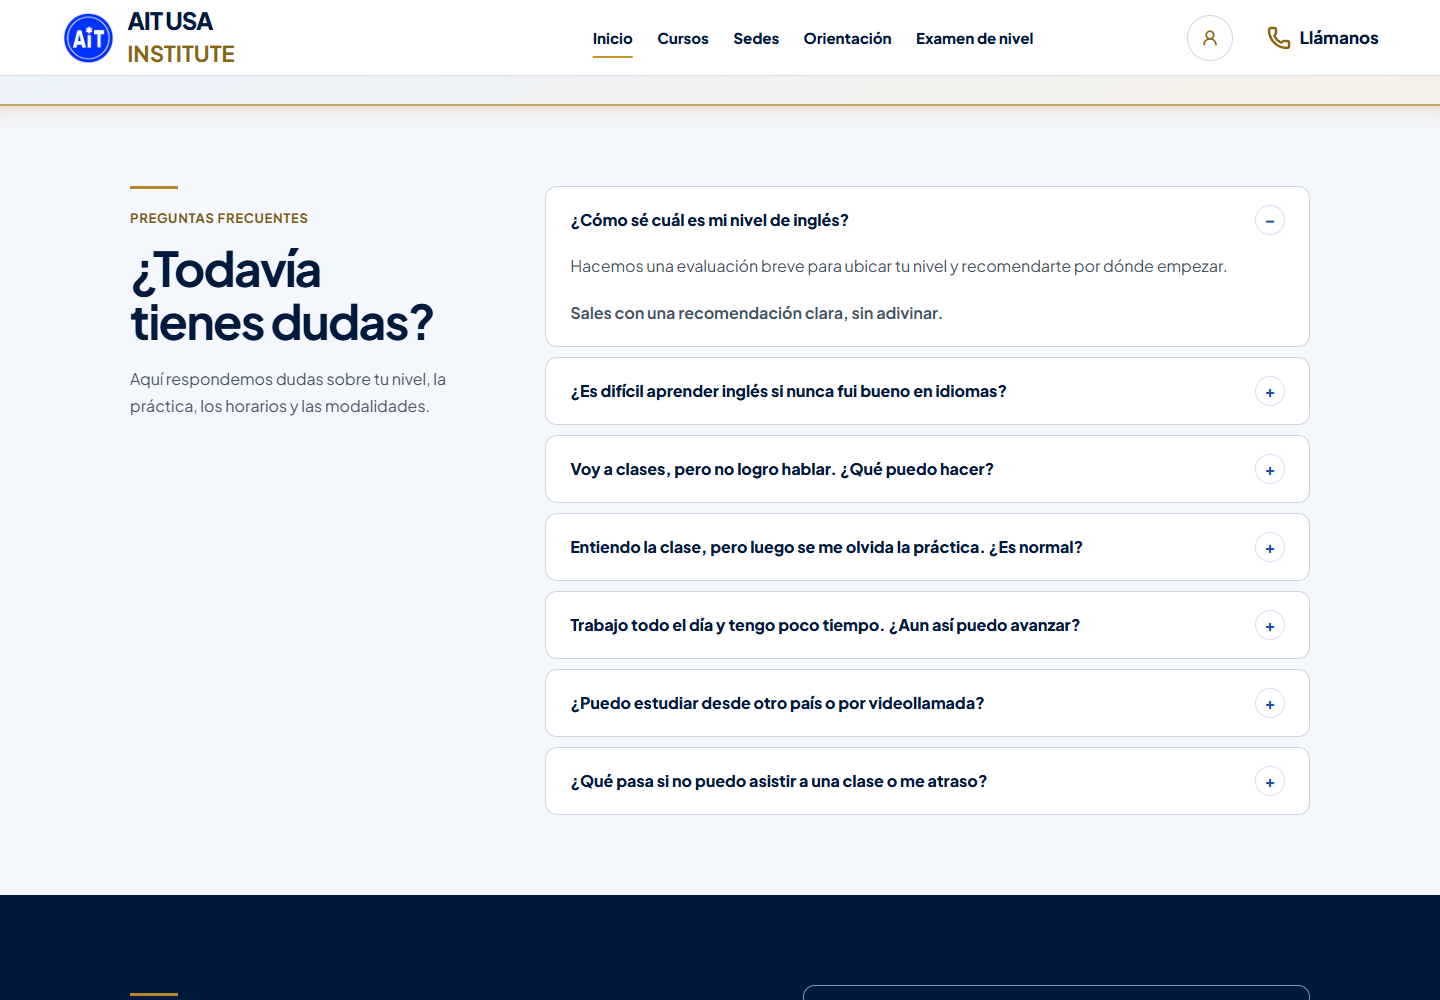
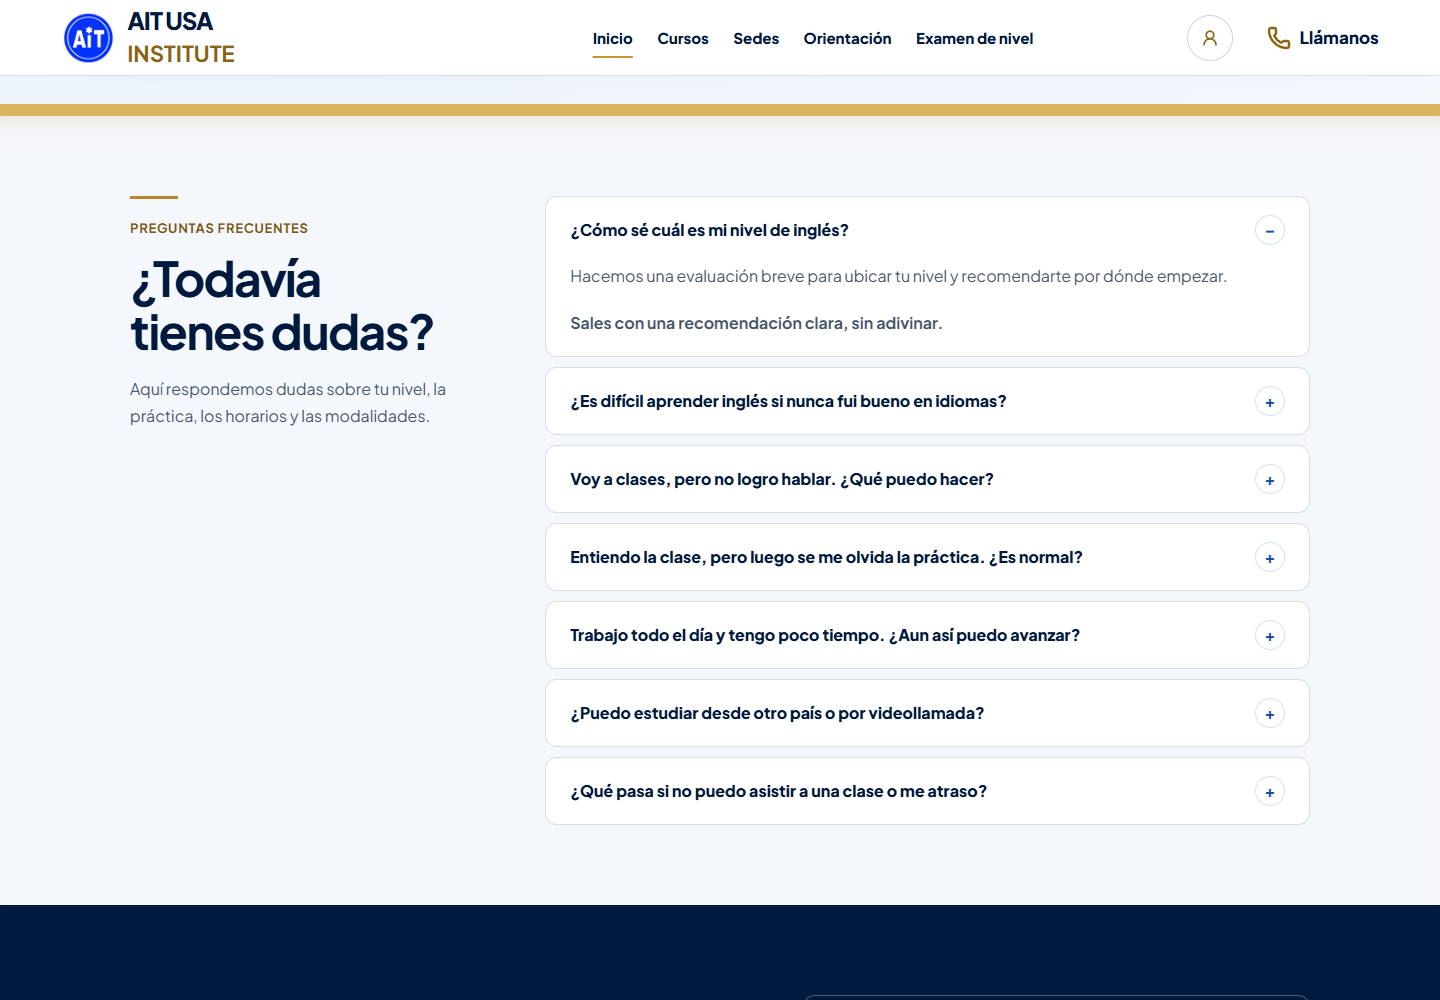
Unify homepage visual system

diff --git a/src/homepage.css b/src/homepage.css
@@ -6,14 +6,28 @@
   --home-gold: #b5872c;
   --home-gold-text: #785615;
   --home-gold-light: #e6bd68;
+  --home-gold-accent: #d9b45d;
   --home-muted: #475569;
   --home-paper: #f7f2e8;
   --home-soft: #f4f7fc;
+  --home-soft-strong: #edf3fb;
   --home-border: #cbd5e1;
+  --home-card-border: rgb(0 26 61 / 14%);
+  --home-dark-border: rgb(255 255 255 / 28%);
+  --home-gold-border: rgb(230 189 104 / 88%);
+  --home-gold-soft: #fffaf0;
+  --home-seam: rgb(181 135 44 / 72%);
   --home-on-dark: #dce6f2;
   --home-radius: 12px;
+  --home-feature-radius: 16px;
   --home-control-radius: 8px;
   --home-shadow: 0 8px 24px rgb(0 26 61 / 7%);
+  --home-shadow-raised: 0 18px 44px rgb(0 26 61 / 10%);
+  --home-shadow-hover: 0 24px 56px rgb(0 26 61 / 14%);
+  --home-shadow-dark: inset 0 1px 0 rgb(255 255 255 / 12%), 0 18px 44px rgb(0 8 24 / 24%);
+  --home-shadow-dark-hover: inset 0 1px 0 rgb(255 255 255 / 16%), 0 24px 52px rgb(0 8 24 / 30%);
+  --home-seam-shadow: inset 0 22px 28px -32px var(--home-seam);
+  --home-accent-seam-shadow: inset 0 22px 30px -32px rgb(217 180 93 / 78%);
   --home-width: 1180px;
   --home-gutter: 32px;
   --home-heading: clamp(2.125rem, 3.4vw, 3rem);
@@ -108,7 +122,7 @@
     min-height: 48px;
     width: fit-content;
     padding: 12px 20px;
-    border: 1px solid var(--home-border);
+    border: 1px solid var(--home-card-border);
     border-radius: var(--home-control-radius);
     box-shadow: none;
     font: 700 1rem/1.4 var(--font-body);
@@ -128,10 +142,10 @@
   /* Decision cards share spacing, typography and action affordances. */
   & #elige-tu-curso { background: linear-gradient(145deg, #edf4fd 0%, #f8fbff 64%, #e5eef9 100%); }
   & .study-goals__grid { display: grid; grid-template-columns: repeat(3, minmax(0, 1fr)); gap: 22px; }
-  & .study-goal { position: relative; display: flex; flex-direction: column; align-items: flex-start; min-height: 330px; padding: 30px; border: 1px solid rgb(0 26 61 / 16%); border-radius: 18px; background: rgb(255 255 255 / 86%); text-decoration: none; box-shadow: 0 18px 46px rgb(0 26 61 / 8%); transition: transform 180ms ease, border-color 180ms ease, box-shadow 180ms ease, background-color 180ms ease; overflow: hidden; }
+  & .study-goal { position: relative; display: flex; flex-direction: column; align-items: flex-start; min-height: 330px; padding: 30px; border: 1px solid var(--home-card-border); border-radius: var(--home-feature-radius); background: rgb(255 255 255 / 88%); text-decoration: none; box-shadow: var(--home-shadow-raised); transition: transform 180ms ease, border-color 180ms ease, box-shadow 180ms ease, background-color 180ms ease; overflow: hidden; }
   & .study-goal::after { content: ""; position: absolute; inset: auto -40px -70px auto; width: 170px; height: 170px; border-radius: 999px; background: radial-gradient(circle, rgb(23 78 166 / 9%), transparent 68%); pointer-events: none; }
-  & .study-goal:hover { border-color: rgb(23 78 166 / 48%); background: white; box-shadow: 0 24px 56px rgb(0 26 61 / 14%); transform: translateY(-4px); }
-  & .study-goal__icon { display: grid; place-items: center; width: 54px; height: 54px; margin-bottom: 24px; border: 1px solid rgb(23 78 166 / 18%); border-radius: 16px; background: #eef3fb; color: var(--home-blue); }
+  & .study-goal:hover { border-color: rgb(23 78 166 / 48%); background: white; box-shadow: var(--home-shadow-hover); transform: translateY(-4px); }
+  & .study-goal__icon { display: grid; place-items: center; width: 54px; height: 54px; margin-bottom: 24px; border: 1px solid rgb(23 78 166 / 18%); border-radius: var(--home-radius); background: var(--home-soft-strong); color: var(--home-blue); }
   & .study-goal__icon svg { width: 28px; height: 28px; }
   & .study-goal__label { font-size: .75rem; font-weight: 800; letter-spacing: .08em; text-transform: uppercase; color: var(--home-gold-text); }
   & .study-goal h3 { margin: 10px 0 12px; font-size: 1.35rem; line-height: 1.25; letter-spacing: -.02em; }
@@ -145,12 +159,12 @@
   & #cursos .section-kicker { color: var(--home-gold-light); }
   & #cursos .section-heading > p:last-child:not(.section-kicker) { color: var(--home-on-dark); }
   & #cursos .offer-map { display: grid; grid-template-columns: repeat(3, minmax(0, 1fr)); gap: 20px; margin-top: 0; overflow: visible; }
-  & #cursos .offer-node { position: relative; isolation: isolate; display: flex; flex-direction: column; align-items: flex-start; gap: 24px; min-height: 330px; padding: 30px; border: 1px solid rgb(255 255 255 / 28%); border-radius: 18px; box-shadow: inset 0 1px 0 rgb(255 255 255 / 12%), 0 18px 40px rgb(0 8 24 / 22%); background: rgb(255 255 255 / 10%); backdrop-filter: blur(18px) saturate(115%); transition: transform 180ms ease, border-color 180ms ease, background-color 180ms ease, box-shadow 180ms ease; }
-  & #cursos .offer-node:hover { z-index: 1; border-color: rgb(230 189 104 / 68%); background: rgb(255 255 255 / 15%); box-shadow: inset 0 1px 0 rgb(255 255 255 / 16%), 0 18px 36px rgb(0 8 24 / 30%); transform: translateY(-4px); }
+  & #cursos .offer-node { position: relative; isolation: isolate; display: flex; flex-direction: column; align-items: flex-start; gap: 24px; min-height: 330px; padding: 30px; border: 1px solid var(--home-dark-border); border-radius: var(--home-feature-radius); box-shadow: var(--home-shadow-dark); background: rgb(255 255 255 / 10%); backdrop-filter: blur(18px) saturate(115%); transition: transform 180ms ease, border-color 180ms ease, background-color 180ms ease, box-shadow 180ms ease; }
+  & #cursos .offer-node:hover { z-index: 1; border-color: rgb(230 189 104 / 68%); background: rgb(255 255 255 / 15%); box-shadow: var(--home-shadow-dark-hover); transform: translateY(-4px); }
   & #cursos .offer-node h3 { margin: 0 0 16px; font-size: 1.375rem; line-height: 1.3; }
   & #cursos .offer-node p { display: block; margin: 0; font-size: 1rem; line-height: 1.6; color: var(--home-on-dark); overflow: visible; }
   & #cursos .offer-node__summary-lead { color: var(--home-gold-light); }
-  & #cursos .offer-node--primary { background: rgb(255 255 255 / 11%); border: 2px solid rgb(230 189 104 / 88%); box-shadow: inset 0 1px 0 rgb(255 255 255 / 14%), 0 18px 40px rgb(0 8 24 / 24%); color: white; }
+  & #cursos .offer-node--primary { background: rgb(255 255 255 / 11%); border: 2px solid var(--home-gold-border); box-shadow: var(--home-shadow-dark); color: white; }
   & #cursos .offer-node--primary::before { position: absolute; inset: -2px 28px auto; height: 3px; border-radius: 0 0 999px 999px; background: linear-gradient(90deg, transparent, var(--home-gold-light), transparent); content: ""; }
   & #cursos .offer-node :is(h3, p) { color: white; }
   & #cursos .offer-node__status { display: block; margin-bottom: 12px; font-size: .8125rem; color: var(--home-gold-light); }
@@ -159,34 +173,35 @@
   & #cursos .offer-node__link-full { display: inline; }
 
   /* Preserve geographic selection and make its cards part of the same system. */
-  & #sedes { color: var(--home-navy); background: linear-gradient(150deg, #f8fbff 0%, #edf3fb 56%, #f7f2e8 100%); }
+  & #sedes { color: var(--home-navy); background: linear-gradient(150deg, #f8fbff 0%, var(--home-soft-strong) 58%, var(--home-soft) 100%); }
   & #sedes .section-heading h2 { color: var(--home-navy); }
   & #sedes .section-kicker { color: var(--home-gold-text); }
   & #sedes .section-heading > p:last-child:not(.section-kicker) { color: var(--home-muted); }
-  & #sedes :is(.real-map-card, .compact-location-row, .location-hours-panel) { border: 1px solid rgb(0 26 61 / 14%); border-radius: 16px; background: rgb(255 255 255 / 92%); box-shadow: 0 18px 44px rgb(0 26 61 / 10%); }
+  & #sedes :is(.real-map-card, .compact-location-row, .location-hours-panel) { border: 1px solid var(--home-card-border); border-radius: var(--home-feature-radius); background: rgb(255 255 255 / 92%); box-shadow: var(--home-shadow-raised); }
+  & #sedes .location-hours-panel { color: var(--home-navy); }
   & #sedes :is(.compact-location-row__copy strong, .compact-location-row__copy > span, .location-hours-panel h3, .location-hours-panel li) { color: var(--home-navy); }
   & #sedes :is(.compact-location-row__copy small, .location-hours-panel__note) { color: var(--home-muted); }
   & #sedes .compact-location-row__copy em { color: var(--home-blue); background: #edf3ff; }
-  & #sedes :is(.compact-location-row__number, .location-hours-panel__icon) { color: var(--home-navy); background: var(--home-gold-light); border-color: rgb(181 135 44 / 42%); }
+  & #sedes :is(.compact-location-row__number, .location-hours-panel__icon) { color: var(--home-navy); background: var(--home-gold-accent); border-color: rgb(181 135 44 / 42%); }
   & #sedes .location-hours-panel .eyebrow-chip { color: var(--home-gold-text); }
   & #sedes .location-hours-panel__group > strong { color: var(--home-gold-text); }
   & #sedes .location-hours-panel__group + .location-hours-panel__group { border-left-color: rgb(0 26 61 / 16%); }
   & #sedes .location-hours-panel__slot dt { color: var(--home-muted); }
   & #sedes .location-hours-panel__slot dd { color: var(--home-navy); }
-  & #sedes .compact-location-row.is-selected { border-color: var(--home-gold); background: #fffaf0; box-shadow: 0 16px 34px rgb(0 26 61 / 12%); }
-  & #sedes .real-map-pin.is-active svg { color: var(--home-navy); fill: var(--home-gold-light); }
+  & #sedes .compact-location-row.is-selected { border-color: var(--home-gold); background: var(--home-gold-soft); box-shadow: var(--home-shadow-raised); }
+  & #sedes .real-map-pin.is-active svg { color: var(--home-navy); fill: var(--home-gold-accent); }
   & #sedes .real-map-pin.is-active strong { color: var(--home-navy); }
   & .location-selector { display: grid; gap: 8px; padding: 16px; color: var(--home-navy); font-size: .9375rem; font-weight: 700; background: white; }
-  & .location-selector select { width: 100%; min-height: 48px; padding: 10px 12px; border: 1px solid #94a3b8; border-radius: var(--home-control-radius); color: var(--home-navy); background: white; font: inherit; }
+  & .location-selector select { width: 100%; min-height: 48px; padding: 10px 12px; border: 1px solid var(--home-card-border); border-radius: var(--home-control-radius); color: var(--home-navy); background: white; font: inherit; }
   & .real-map-pin { pointer-events: none; cursor: default; }
-  & .location-selected-hours { padding: 20px; margin-top: 14px; border: 1px solid var(--home-border); border-radius: var(--home-radius); background: white; }
+  & .location-selected-hours { padding: 20px; margin-top: 14px; border: 1px solid var(--home-card-border); border-radius: var(--home-radius); background: white; box-shadow: var(--home-shadow); }
   & .location-selected-hours h3 { margin: 0 0 10px; color: var(--home-navy); font-size: 1.125rem; }
   & .location-selected-hours p { margin: 0 0 12px; color: var(--home-muted); font-size: .9375rem; }
   & .location-selected-hours a { display: inline-flex; align-items: center; min-height: 44px; color: var(--home-blue); font-weight: 700; font-size: .9375rem; text-underline-offset: 4px; }
   & #sedes .compact-location-row__action { color: var(--home-blue); font-size: .875rem; }
 
   /* Method and books form consecutive chapters; original narrative is preserved. */
-  & #metodo.method-story-section { background: linear-gradient(180deg, #fbf6eb 0%, var(--home-paper) 100%); border-top: 2px solid rgb(181 135 44 / 72%); box-shadow: inset 0 22px 28px -32px rgb(181 135 44 / 72%); padding-bottom: 48px; }
+  & #metodo.method-story-section { background: linear-gradient(180deg, #fbf6eb 0%, var(--home-paper) 100%); border-top: 2px solid var(--home-seam); box-shadow: var(--home-seam-shadow); padding-bottom: 48px; }
   & #metodo .method-story-frame { gap: 24px; }
   & #metodo .method-story__opening { display: block; padding: 0; min-height: 0; }
   & #metodo .method-story__intro { max-width: none; margin-bottom: 40px; padding-left: 24px; border-left: 4px solid var(--home-gold); }
@@ -206,7 +221,7 @@
   & #metodo .method-story__principles-heading h3 { margin: 10px 0 0; max-width: 620px; font-size: 2rem; line-height: 1.2; letter-spacing: -.03em; }
   & #metodo .method-reasons { padding: 0; margin: 0; transform: none; }
   & #metodo .method-story__conclusion .method-reasons li { display: grid; grid-template-columns: 40px minmax(0, 1fr); gap: 20px; align-items: start; padding: 20px 0; border-color: #d7ccb6; }
-  & #metodo .method-story__conclusion .method-reason__icon { display: grid; place-items: center; width: 58px; height: 58px; border-radius: 16px; border: 1px solid rgb(181 135 44 / 32%); background: linear-gradient(145deg, #fffdf8, #f4ead2); box-shadow: 0 10px 24px rgb(0 26 61 / 8%); overflow: hidden; }
+  & #metodo .method-story__conclusion .method-reason__icon { display: grid; place-items: center; width: 58px; height: 58px; border-radius: var(--home-radius); border: 1px solid rgb(181 135 44 / 32%); background: linear-gradient(145deg, #fffdf8, #f4ead2); box-shadow: var(--home-shadow); overflow: hidden; }
   & #metodo .method-reason__icon::before { display: none; }
   & #metodo .method-story__conclusion .method-reason__icon-image { display: block; width: 52px; height: 52px; object-fit: contain; mix-blend-mode: multiply; }
   & #metodo .method-story__conclusion .method-reason__icon svg { display: block; width: 26px; height: 26px; color: var(--home-navy); filter: none; }
@@ -226,12 +241,12 @@
   /* Proof uses the same media frames, with collections accessible in one gallery. */
   & #testimonios { background: white; }
   & #testimonios .testimonials-grid { gap: 24px; margin-top: 0; }
-  & #testimonios .testimonial-card { border: 1px solid var(--home-border); border-radius: var(--home-radius); box-shadow: var(--home-shadow); transform: none; }
+  & #testimonios .testimonial-card { border: 1px solid var(--home-card-border); border-radius: var(--home-radius); box-shadow: var(--home-shadow); transform: none; }
   & #testimonios .testimonial-card__media { height: auto; min-height: 0; aspect-ratio: 4 / 3; }
   & #testimonios .testimonial-card__copy { padding: 24px; gap: 10px; }
   & #testimonios .testimonial-card__copy strong { font-size: 1.25rem; line-height: 1.3; }
   & #testimonios .testimonial-card__copy small { font-size: 1rem; line-height: 1.6; color: var(--home-muted); }
-  & #testimonios .country-proof { background: var(--home-soft); border: 1px solid var(--home-border); border-radius: var(--home-radius); box-shadow: none; margin: 32px 0 0; padding: 24px; }
+  & #testimonios .country-proof { color: var(--home-navy); background: var(--home-soft); border: 1px solid var(--home-card-border); border-radius: var(--home-radius); box-shadow: none; margin: 32px 0 0; padding: 24px; }
   & #testimonios .country-proof__copy { color: var(--home-navy); }
   & #testimonios .country-proof__copy > span { color: var(--home-gold-text); font-size: .8125rem; }
   & #testimonios .country-proof__flags { display: flex; flex-wrap: wrap; justify-content: flex-start; gap: 12px; overflow: visible; margin: 0; padding: 0; }
@@ -239,19 +254,19 @@
   & #experiencia { background: var(--home-navy); }
   & #experiencia .chapter-accent { display: none; }
   & #experiencia .community-proof__tabs { display: grid; grid-auto-flow: row; grid-auto-columns: auto; grid-template-columns: repeat(4, minmax(0, 1fr)); width: 100%; gap: 8px; margin: 0 0 24px; padding: 0; overflow: visible; border: 0; }
-  & #experiencia .community-proof__tabs button { width: 100%; min-height: 48px; padding: 12px 16px; color: var(--home-on-dark); font-size: 1rem; line-height: 1.4; border: 1px solid #8193ae; border-radius: var(--home-control-radius); white-space: normal; background: transparent; }
+  & #experiencia .community-proof__tabs button { width: 100%; min-height: 48px; padding: 12px 16px; color: var(--home-on-dark); font-size: 1rem; line-height: 1.4; border: 1px solid var(--home-dark-border); border-radius: var(--home-control-radius); white-space: normal; background: transparent; }
   & #experiencia .community-proof__tabs button::after { display: none; }
   & #experiencia .community-proof__tabs button.is-active { color: var(--home-navy); background: white; border-color: white; }
   & #experiencia .community-proof__stage { display: grid; grid-template-columns: minmax(0, 1.78fr) minmax(0, 1fr); grid-template-rows: clamp(420px, 46vw, 600px); align-items: stretch; gap: 24px; margin: 0; min-height: 0; }
   & #experiencia .community-proof__stage--single { grid-template-columns: minmax(0, 1fr); }
   & #experiencia .community-proof__stage--pair { grid-template-columns: repeat(2, minmax(0, 1fr)); }
-  & #experiencia :is(.community-proof__feature, .community-proof__tile) { border-radius: var(--home-radius); box-shadow: none; }
+  & #experiencia :is(.community-proof__feature, .community-proof__tile) { border: 1px solid var(--home-dark-border); border-radius: var(--home-radius); box-shadow: none; }
   & #experiencia .community-proof__feature { min-height: 0; height: 100%; aspect-ratio: auto; }
   & #experiencia .community-proof__mosaic { min-height: 0; height: 100%; grid-template-rows: repeat(2, minmax(0, 1fr)); gap: 24px; }
   & #experiencia .community-proof__mosaic--single { grid-template-rows: minmax(0, 1fr); }
   & #experiencia .community-proof__tile { min-height: 0; height: 100%; }
   & #experiencia .community-proof__toolbar { display: flex; flex-wrap: wrap; align-items: center; justify-content: space-between; gap: 16px; margin-top: 24px; }
-  & #experiencia :is(.home-secondary-button, .community-pause) { color: white; background: transparent; border-color: #8193ae; margin: 0; }
+  & #experiencia :is(.home-secondary-button, .community-pause) { color: white; background: transparent; border-color: var(--home-dark-border); margin: 0; }
   & #experiencia :is(.home-secondary-button, .community-pause):hover { background: #123f78; }
   & #experiencia .community-pause-note { color: var(--home-on-dark); }
   & #experiencia .community-proof__service-note { margin-block: 24px 0; }
@@ -265,23 +280,23 @@
     & :is(.hero__help, .home-text-link, .books-section__heading a):hover { color: white; }
     & :is(a, button):focus-visible { outline-color: var(--home-gold-light); }
   }
-  & #faq { background: var(--home-soft); border-top: 2px solid rgb(181 135 44 / 72%); box-shadow: inset 0 22px 28px -32px rgb(181 135 44 / 72%); }
+  & #faq { background: var(--home-soft); border-top: 12px solid var(--home-gold-accent); box-shadow: var(--home-accent-seam-shadow); }
   & #faq, & #contacto { min-height: 0; }
   & #faq .faq-layout { align-items: start; gap: 48px; }
   /* Clear the legacy sticky top offset when the heading is in normal flow. */
   & #faq .section-heading { position: static; inset: auto; }
-  & #faq .faq-list details { border: 1px solid var(--home-border); border-radius: var(--home-radius); box-shadow: none; padding: 0; }
+  & #faq .faq-list details { border: 1px solid var(--home-card-border); border-radius: var(--home-radius); box-shadow: none; padding: 0; }
   & #faq .faq-list summary { min-height: 64px; padding: 18px 24px; font-size: 1rem; line-height: 1.5; }
   & #faq .faq-list details > p { margin: 0; padding: 0 24px 20px; color: var(--home-muted); font-size: 1rem; line-height: 1.65; }
   & #contacto { background: var(--home-navy); }
   & #contacto .final-cta-copy { display: grid; grid-template-columns: minmax(0, 1.2fr) minmax(0, 1fr); gap: 64px; align-items: center; }
   & #contacto .section-heading { margin: 0; }
-  & #contacto .final-cta-conversion { display: flex; flex-direction: column; align-items: flex-start; gap: 16px; margin: 0; padding: 32px; border: 1px solid #8193ae; border-radius: var(--home-radius); }
+  & #contacto .final-cta-conversion { display: flex; flex-direction: column; align-items: flex-start; gap: 16px; margin: 0; padding: 32px; border: 1px solid var(--home-dark-border); border-radius: var(--home-radius); color: white; }
   & #contacto .final-cta-contact-row { display: flex; justify-content: flex-start; width: 100%; padding: 0; margin: 0; }
   & #contacto .final-cta-actions { display: flex; justify-content: center; width: 100%; padding: 0; margin: 0; text-align: center; }
   & #contacto .final-cta-actions .hero__help { justify-content: center; text-align: center; }
   & #contacto .button--primary { min-height: 48px; width: 100%; background: white; border-color: white; color: var(--home-navy); border-radius: var(--home-control-radius); box-shadow: none; }
-  & #contacto .button--primary:hover { background: #e5edf8; border-color: #e5edf8; }
+  & #contacto .button--primary:hover { background: var(--home-soft-strong); border-color: var(--home-soft-strong); }
   & #contacto .placement-effort { display: block; align-self: center; margin: 0; color: var(--home-on-dark); font-size: .9375rem; line-height: 1.6; text-align: center; }
   & #contacto .callback-dialog { color: var(--home-navy); }
   & #contacto .callback-dialog :is(.section-kicker, a) { color: var(--home-blue); }

diff --git a/docs/homepage-redesign-release-packet-2026-09-16.md b/docs/homepage-redesign-release-packet-2026-09-16.md
@@ -9,18 +9,20 @@
 - Candidate commit: This release commit, created directly from the freshly fetched `origin/staging` baseline above.
 - Candidate structure: Hero → English modality decision → secondary programs → Method → Graphic Concept books → testimonials → community proof → locations → FAQ → final CTA.
 - Follow-up refinement: Move the Method video below the subsection headline's starting edge, restore a clear 32px/18px heading-to-point hierarchy, remove the legacy upward pull on the three outcomes, reduce Method density on mobile, and give the narrow-screen secondary-program link an intentional centered wrap. No broader palette or component-system changes were made during the advisory uniformity audit.
+- Uniformity follow-up: Apply the approved homepage-wide visual system without reopening the structure or copy: one cool/warm palette rule, 16px feature cards, 12px content cards, 8px controls, shared light/dark borders, shared elevation recipes, cool-toned Sedes surfaces, one established gold for map pins and location markers, explicit inherited text colors, a fine gold seam into the warm Método story, and a deliberate 12px gold transition band between the cool Sedes and FAQ chapters.
 - Validation:
   - `npm run validate` — repository policy passed; asset integrity passed (`132` references, `0` missing, `0` orphaned); full Node suite passed (`357/357`); final Turbopack build failed because the worktree has no local `node_modules` and Turbopack rejects the temporary junction to the canonical checkout as outside the filesystem root.
   - `npm run build -- --webpack` — passed after the final CSS changes with all routes generated.
   - `node --test tests/homepage-proof.test.mjs tests/homepage-integration.test.mjs` — passed (`19/19`) after the final footer and modality-card corrections.
   - `VERIFY_BASE_URL=http://127.0.0.1:3000 npm run verify:release-surfaces` — passed (`49` screenshots) after the final production build.
   - Follow-up browser QA — Method verified at `1920×1080` and `390×844`; zero horizontal overflow and zero browser console errors; the mobile Method chapter is approximately `120px` shorter than the approved staging checkpoint.
+  - Uniformity browser QA — homepage manually verified at the normal desktop viewport, `390×844`, and `320×844`; zero horizontal overflow and zero browser console warnings or errors. The complete `49`-screenshot release-surface matrix passed again after the final token and component-state refinements.
   - `git diff --check` — passed; only Windows line-ending notices were emitted.
 - Visual evidence:
   - Deterministic route matrix: `artifacts/release-surfaces/`.
   - Exact manual checks include homepage at `1920×1080` and `390×844`, Method at `1920×1080` and `390×844`, and portal sign-in at `1920×1080` and `390×844`.
   - No horizontal overflow or browser console/runtime warnings or errors were observed in the final local browser pass.
-- Deployment URL: Pending — local candidate only.
+- Deployment URL: Git-triggered staging alias `https://aitusa-institute-refresh-git-staging-alvaros-projects-efb8ae58.vercel.app`; the exact immutable deployment is verified after the authorized push completes.
 - Sentry status: Unavailable for the local candidate; no remote Sentry write or authenticated production action was performed. Browser runtime evidence was privacy-safe and no forms or student data were submitted.
 - Approval state: Owner reviewed the local candidate and explicitly authorized a staging push. Production promotion remains unauthorized.
 - Safety: No dependency installation, production data write, provider send, manual deploy, production promotion, authentication change, billing action, or customer-data access was performed. The authorized staging Git push is the only external release action.
